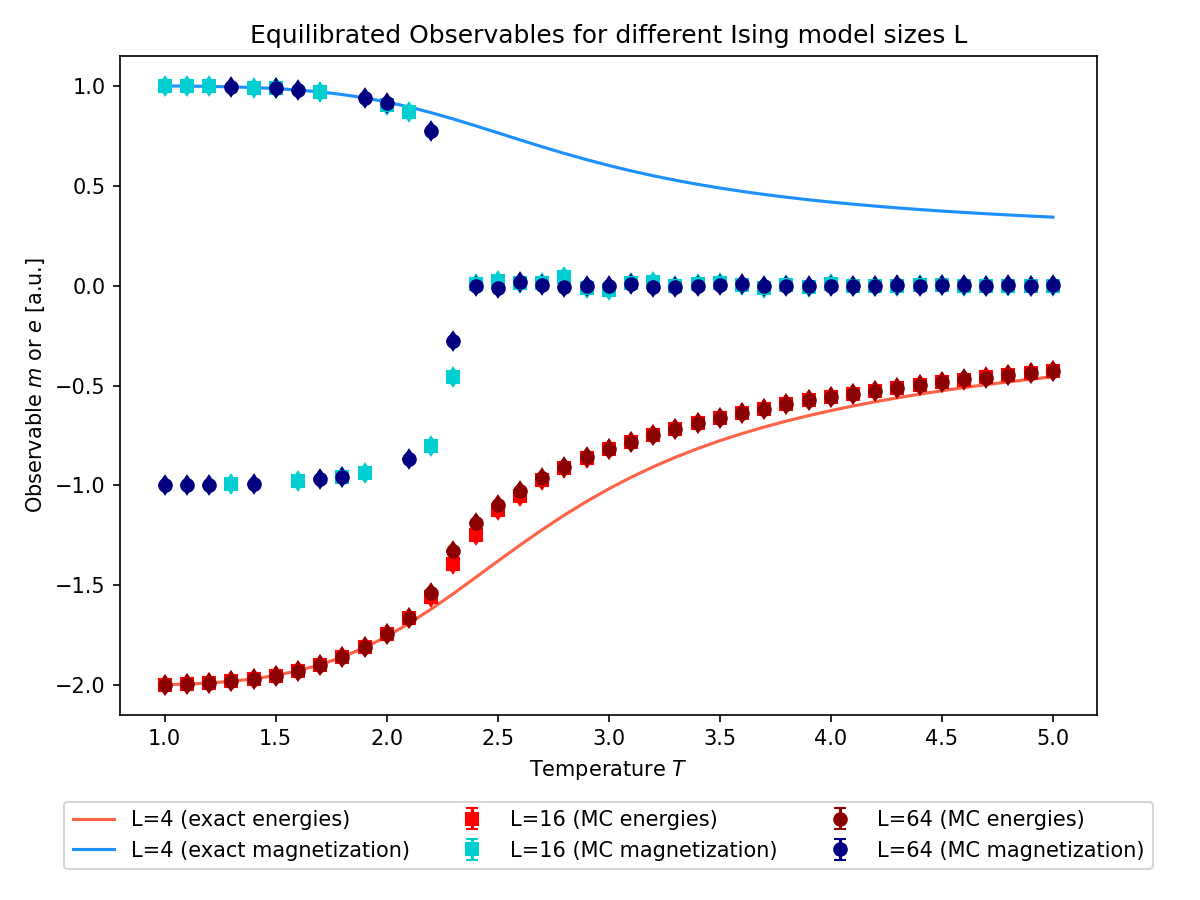
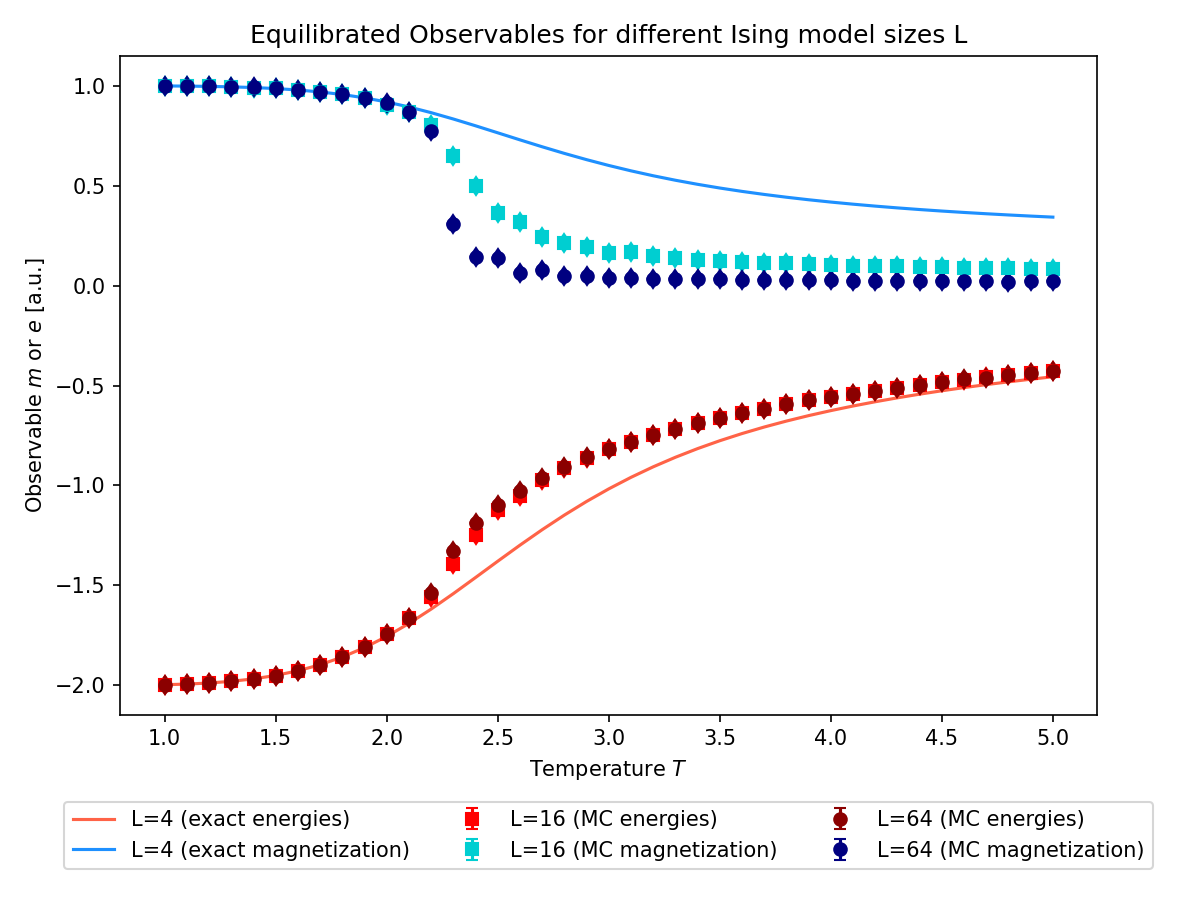
Last commit before submission.

diff --git a/sm1_worksheet_6/solution/ising_analysis.py b/sm1_worksheet_6/solution/ising_analysis.py
@@ -3,7 +3,7 @@ TODO:
     - error correction (PLUS correlation time?!)
 """
 
-import cising
+# import cising
 import numpy as np
 import matplotlib.pyplot as plt
 from mpl_toolkits.axes_grid1.inset_locator import inset_axes
@@ -52,12 +52,10 @@ def calc_observables(beta, L, number_of_samples=None, corr_time=None, equib_time
     return energies_array, magnetization_array
 
 def compute_binder_parameter(magnetization_array):
-    
-    term = np.power(magnetization_array, 4).mean() / (np.power(magnetization_array, 2).mean())**2
+    magnetization_array_abs = np.abs(magnetization_array)
+    term = np.power(magnetization_array_abs, 4).mean() / (np.power(magnetization_array_abs, 2).mean())**2
     
     return 1 - (1/3) * term
-
-
 
 def generate_data(temp_array, L, number_of_samples=None, corr_time=None, equip_time=None, plot_dir='observable_dynamics'):
     energy_mean_list, energy_std_list = [], []
@@ -108,6 +106,14 @@ def find_intersection(func1, func2, initial_guess):
     return intersection
 
 
+# def compute_mean_magnetization(filepath: str):
+#     with gzip.open(filepath, 'rb') as f:
+#         dataset = pickle.load(f)
+    
+#     return np.abs(dataset[1]).mean()
+
+# def compute
+
 
 if __name__=="__main__":
     temp_array_ex1 = np.arange(1.0, 5.1, 0.1, dtype=float)
@@ -124,7 +130,7 @@ if __name__=="__main__":
 
     GENERATE_EX_1 = False
     GENERATE_EX_2 = False
-    GENERATE_EX_3 = True
+    GENERATE_EX_3 = False
 
     # generating data for ex1
     if GENERATE_EX_1:
@@ -152,6 +158,23 @@ if __name__=="__main__":
 
     # generating ex_1 plot
     import matplotlib.patches as mpatches
+
+    # compute correct magnetizations and energies
+    for l_current in L_array_ex1:
+        mean_energies, mean_magnetizations = [], []
+        std_energies, std_magnetizations = [], []
+        for temp in temp_array_ex1:
+            filepath = f'./sm1_worksheet_6/data/observable_dynamics/T_{round(temp, 2)}_L_{int(l_current)}.npy'
+            dataset = np.load(filepath)
+
+            mean_energies.append(dataset[0].mean())
+            std_energies.append(dataset[0].std())
+
+            mean_magnetizations.append(np.abs(dataset[1]).mean())
+            std_magnetizations.append(np.abs(dataset[1]).std())
+        
+        savepath = f'./sm1_worksheet_6/data/T_observable_dynamics_L_{l_current}.npy'
+        np.save(savepath, np.array([mean_energies, std_energies, mean_magnetizations, std_magnetizations]))
 
     exact_results = np.load('./sm1_worksheet_6/data/ising_exact.npy')
     mc_l_16 = np.load('./sm1_worksheet_6/data/T_observable_dynamics_L_16.npy')
@@ -357,3 +380,51 @@ if __name__=="__main__":
                 equip_time=equib_times_ex3[indx],
                 plot_dir='beta_estimation_theo_T',
             )
+
+    # sim_list, theo_list = [], []
+    # for l_current in L_array_ex3:
+    #     filepath_theo = f'./sm1_worksheet_6/data/beta_estimation_theo_T/T_{round(critical_temp_theo, 2)}_L_{l_current}.pkl.gz'
+    #     filepath_sim = f'./sm1_worksheet_6/data/beta_estimation_calc_T/T_{round(critical_temp_calc, 2)}_L_{l_current}.pkl.gz'
+    #     with gzip.open(filepath_sim, 'rb') as f:
+    #         dataset = pickle.load(f)
+    #         magnetization = np.abs(dataset[1]).mean()
+    #         sim_list.append(magnetization)
+    #     with gzip.open(filepath_theo, 'rb') as f:
+    #         dataset = pickle.load(f)
+    #         magnetization = np.abs(dataset[1]).mean()
+    #         theo_list.append(magnetization)
+
+    # np.save(f'./sm1_worksheet_6/data/T_beta_estimation_calc_T.npy', np.array(sim_list))
+    # np.save(f'./sm1_worksheet_6/data/T_beta_estimation_theo_T.npy', np.array(theo_list))
+    """
+    Das Ergebnis des plots ist beta, c = 0.09411081, 0.92383345
+    """
+
+    from scipy.optimize import curve_fit
+    def exponential_func(x, beta, a, c):
+        return c + a*x**(-beta)
+    
+    def exponential_func_(x, beta, c):
+        return c*x**(-beta)
+
+    sim_magnetization_ex_3 = np.load(f'./sm1_worksheet_6/data/T_beta_estimation_calc_T.npy')
+    theo_magnetization_ex_3 = np.load(f'./sm1_worksheet_6/data/T_beta_estimation_theo_T.npy')
+
+    popt, pcov = curve_fit(exponential_func, L_array_ex3, theo_magnetization_ex_3, p0=[1/8, 1, 1])
+    popt_, pcov_ = curve_fit(exponential_func_, L_array_ex3, theo_magnetization_ex_3, p0=[1/8, 1])
+    print(popt, popt_)
+
+    plt.plot(L_array_ex3, sim_magnetization_ex_3, label=r'$T_c \approx 2.68$ (Theory)', marker='o', color='mediumblue')
+    plt.plot(L_array_ex3, theo_magnetization_ex_3, label=r'$T_c \approx 2.60$ (Simulated)', marker='o', color='darkred')
+
+    plt.plot(L_array_ex3, exponential_func_(L_array_ex3, *popt_), color='darkgray', label=r'Fit $m \sim c \cdot L^{- \beta_m }$')
+
+    plt.xscale('log')
+    plt.yscale('log')
+
+    plt.xlabel(r'Grid size $L$')
+    plt.ylabel(r'Magnetization $m$')
+
+    plt.legend()
+    plt.savefig(f'./sm1_worksheet_6/plots/critical_magnetization_plot.png', dpi=150)
+    plt.show()
